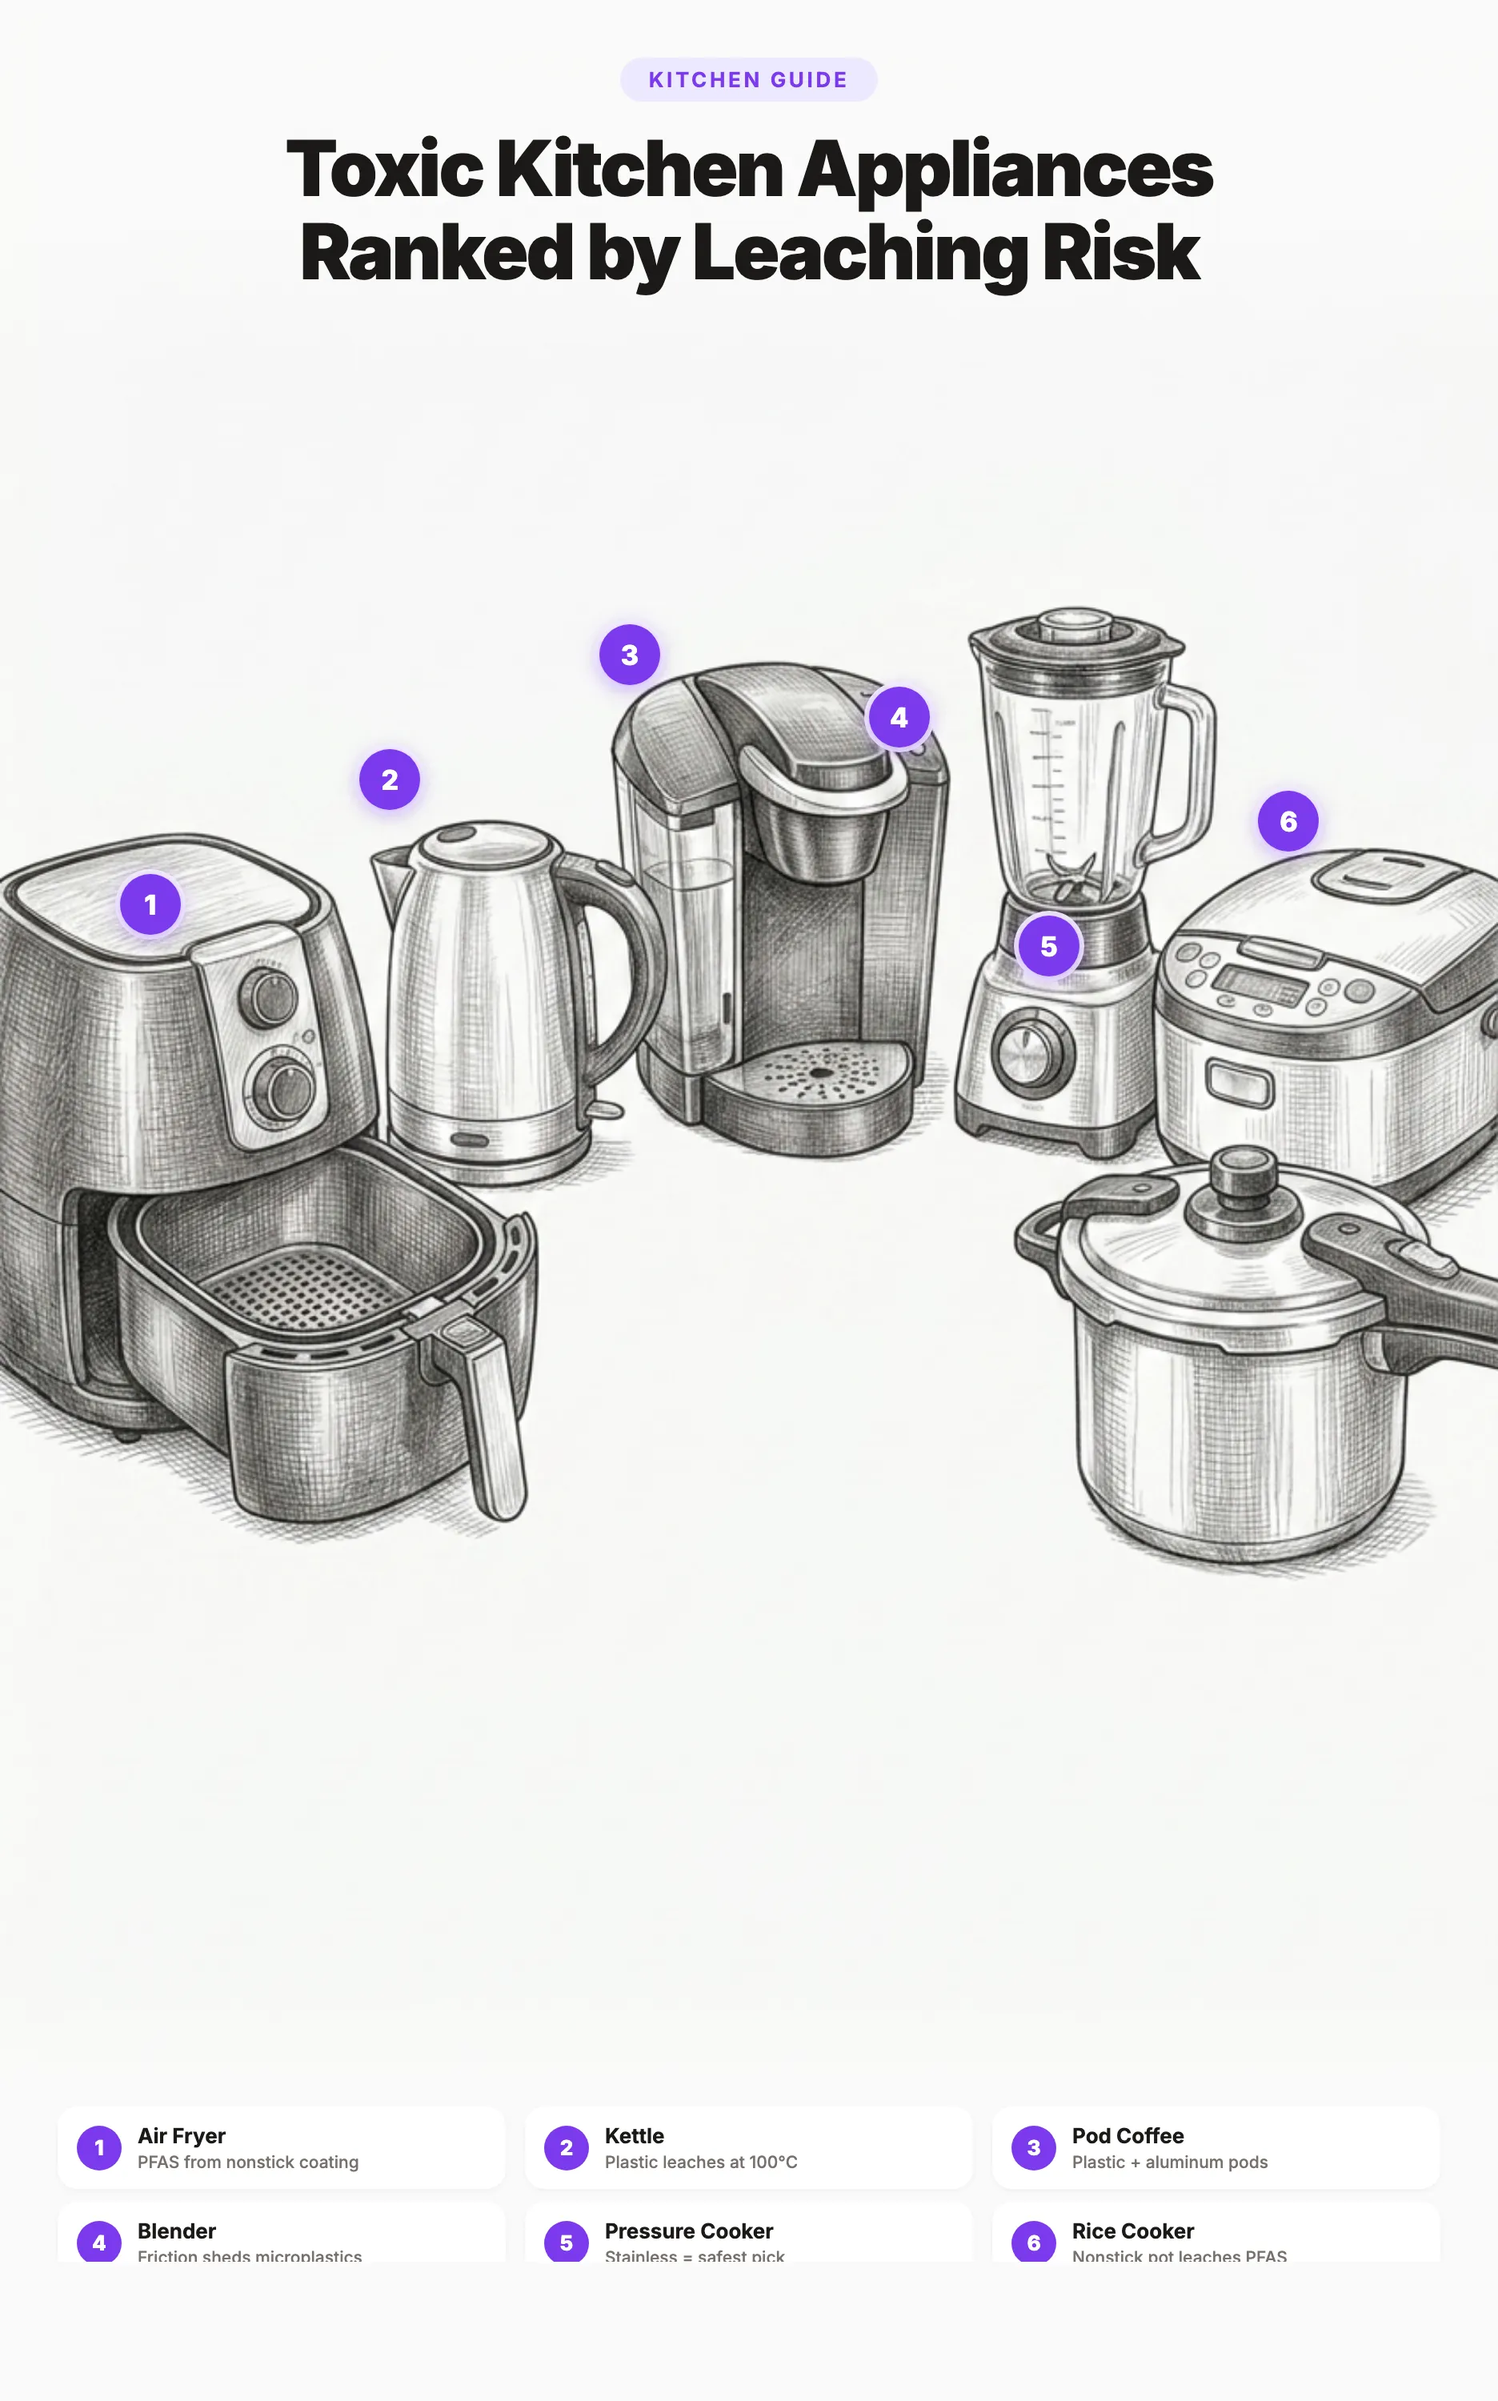
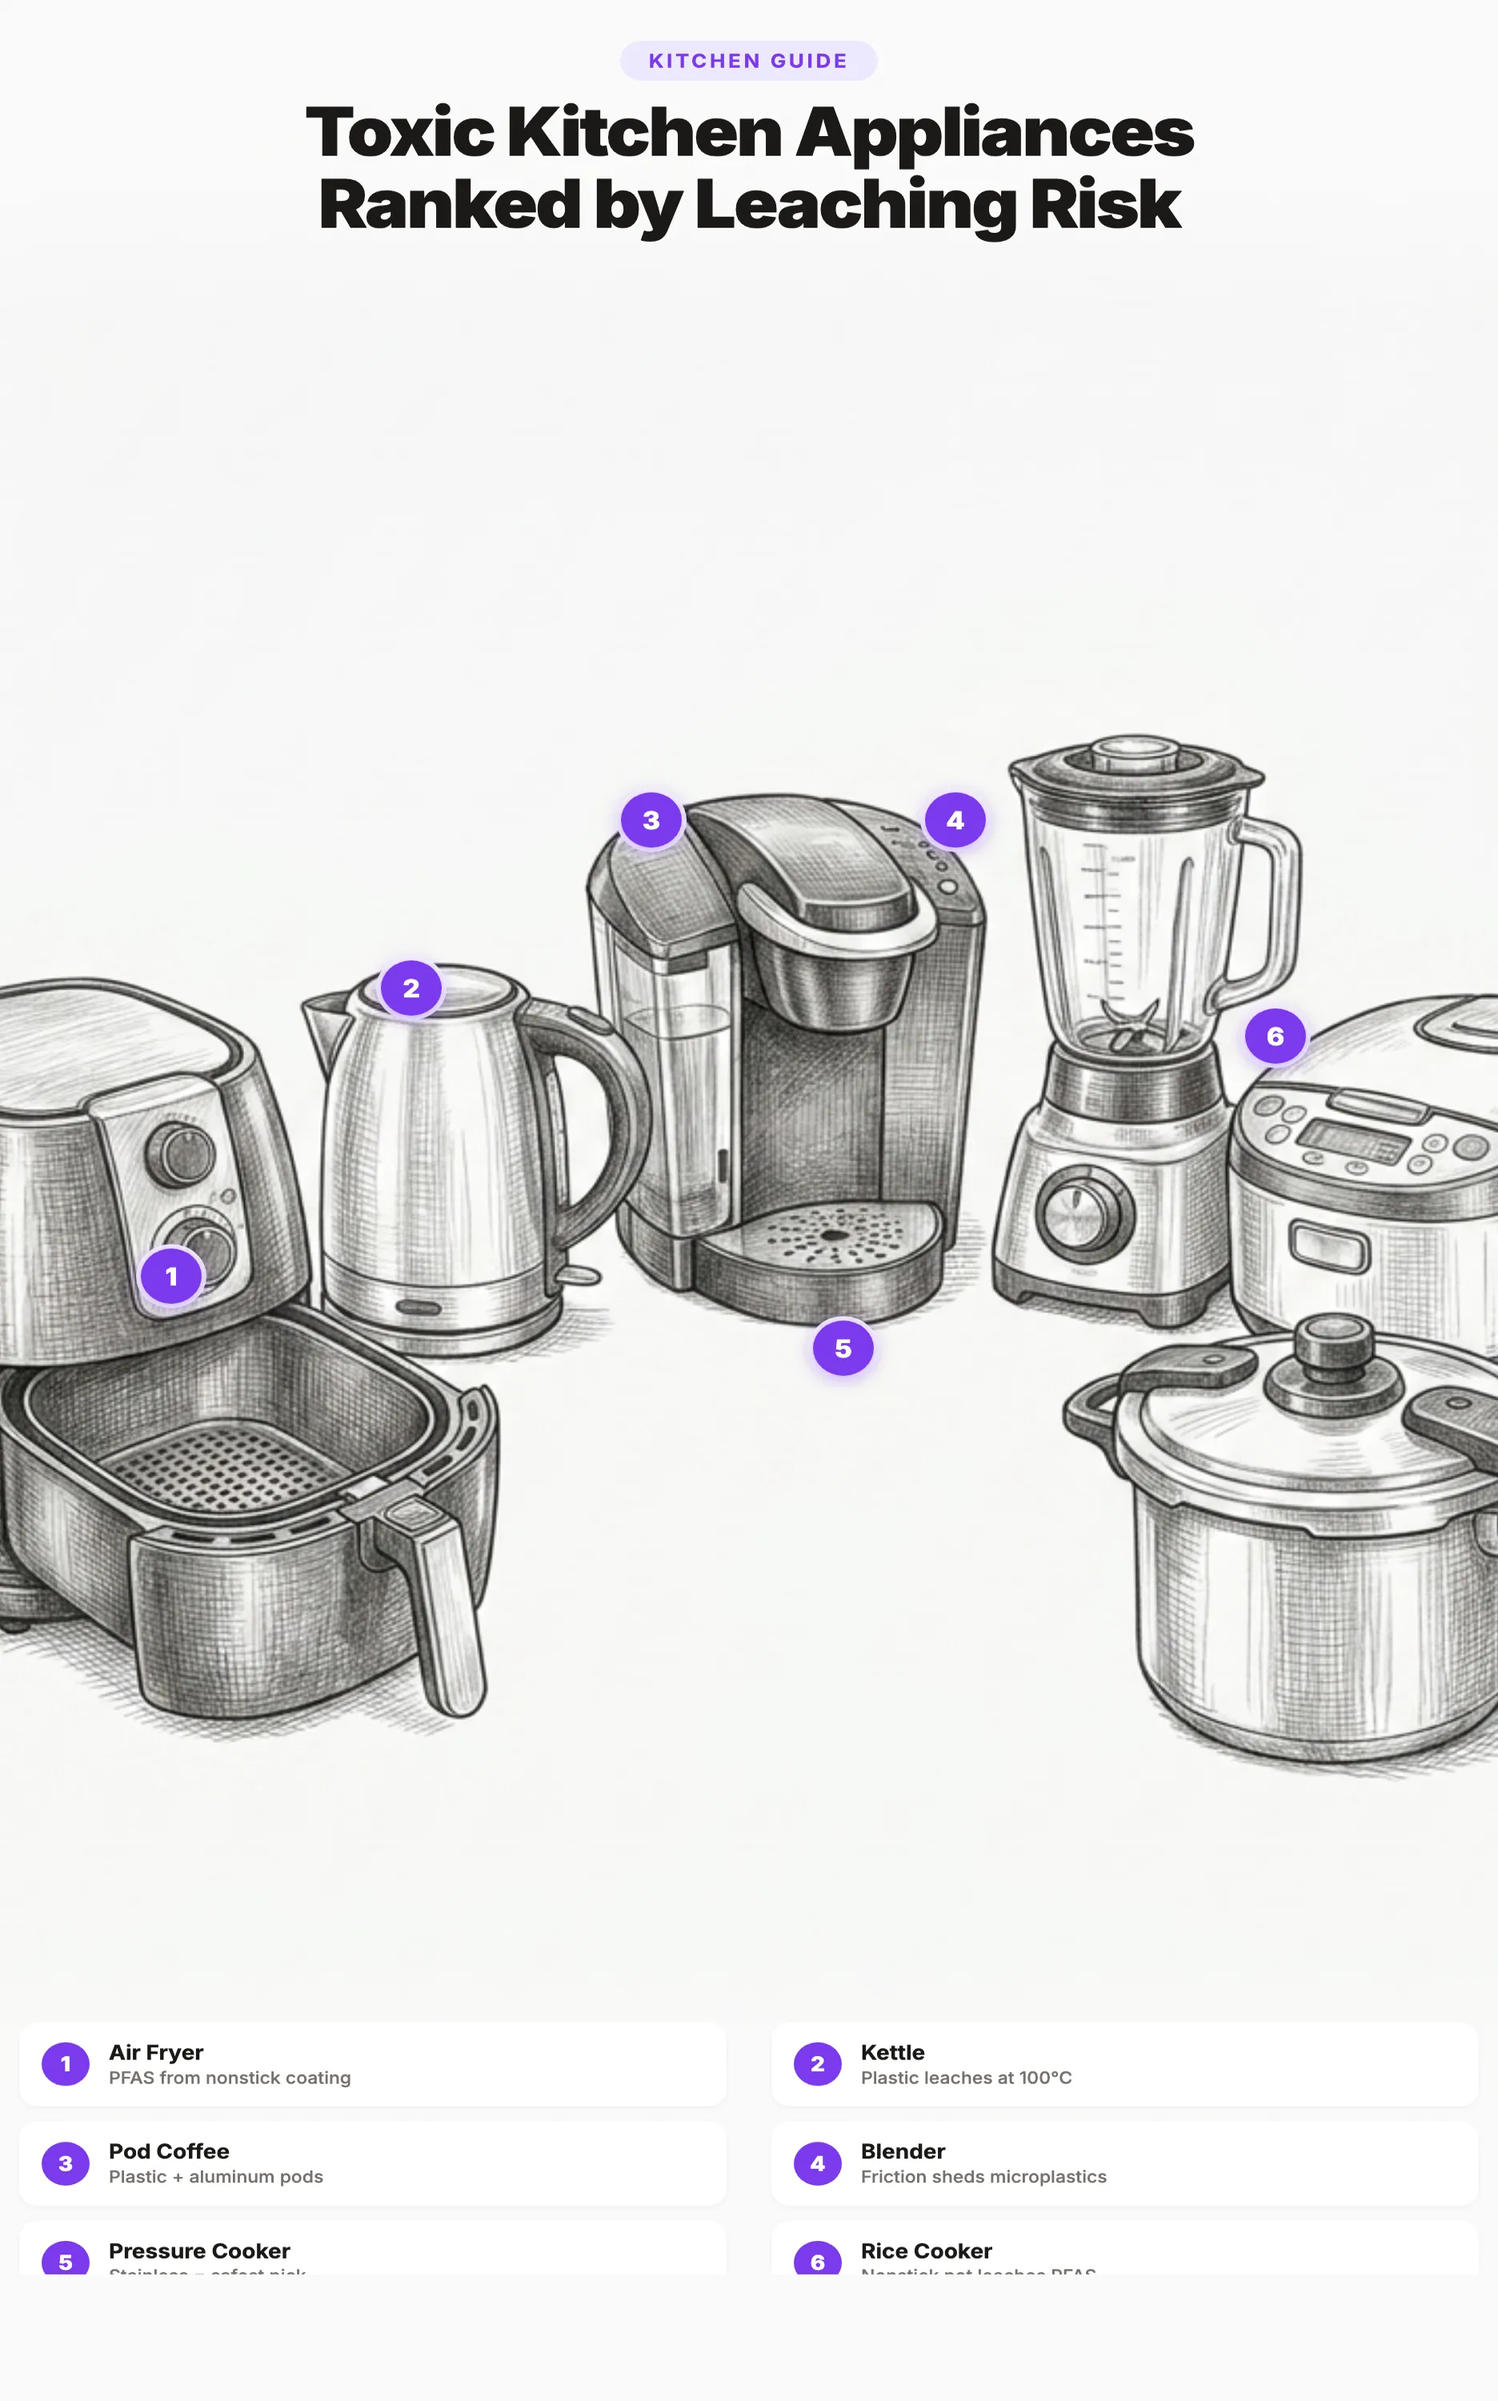
Fix pin: 2 columns, 3 rows, 6 badges on correct appliances

diff --git a/images/toxic-appliances-swap-pinterest.html b/images/toxic-appliances-swap-pinterest.html
@@ -21,22 +21,14 @@
     }
 
     .pin {
-      width: 936px;
-      height: 1500px;
-      display: flex;
-      flex-direction: column;
-      overflow: hidden;
-      position: relative;
-    }
-
-    /* Image area: takes remaining space */
-    .image-area {
-      flex: 1;
+      width: 1000px;
+      height: 1650px;
       position: relative;
       overflow: hidden;
     }
 
-    .image-area img {
+    /* Full bleed image */
+    .pin > img {
       width: 100%;
       height: 100%;
       object-fit: cover;
@@ -47,14 +39,13 @@
     .top-overlay {
       position: absolute;
       top: 0; left: 0; right: 0;
-      padding: 36px 40px 56px;
+      padding: 28px 40px 56px;
       background: linear-gradient(to bottom,
         rgba(250, 250, 249, 0.95) 0%,
         rgba(250, 250, 249, 0.85) 60%,
         rgba(250, 250, 249, 0) 100%
       );
       text-align: center;
-      z-index: 2;
     }
 
     .headline-tag {
@@ -67,11 +58,11 @@
       background: #ede9fe;
       padding: 6px 18px;
       border-radius: 100px;
-      margin-bottom: 16px;
+      margin-bottom: 10px;
     }
 
     .top-overlay h1 {
-      font-size: 48px;
+      font-size: 46px;
       font-weight: 900;
       color: #1c1917;
       line-height: 1.08;
@@ -97,57 +88,50 @@
       z-index: 3;
     }
 
-    .badge-1 { left: 8%;  top: 42%; }
-    .badge-2 { left: 24%; top: 36%; }
-    .badge-3 { left: 40%; top: 30%; }
-    .badge-4 { left: 58%; top: 33%; }
-    .badge-5 { left: 68%; top: 44%; }
-    .badge-6 { left: 84%; top: 38%; }
-
-    /* Gradient fade at bottom of image */
-    .image-fade {
-      position: absolute;
-      bottom: 0; left: 0; right: 0;
-      height: 60px;
-      background: linear-gradient(to bottom,
-        rgba(250, 250, 249, 0) 0%,
-        rgba(250, 250, 249, 1) 100%
-      );
-      z-index: 2;
-    }
+    .badge-1 { left: 12%; top: 52%; }
+    .badge-2 { left: 27%; top: 40%; }
+    .badge-3 { left: 42%; top: 33%; }
+    .badge-4 { left: 61%; top: 33%; }
+    .badge-5 { left: 54%; top: 55%; }
+    .badge-6 { left: 81%; top: 42%; }
 
     /* ─── BOTTOM: swap legend card ─── */
     .bottom-card {
-      background: #fafaf9;
-      padding: 16px 36px 14px;
-      flex-shrink: 0;
-      min-height: 200px;
+      position: absolute;
+      bottom: 0; left: 0; right: 0;
+      background: linear-gradient(to bottom,
+        rgba(250, 250, 249, 0) 0%,
+        rgba(250, 250, 249, 0.9) 15%,
+        rgba(250, 250, 249, 0.97) 30%,
+        rgba(250, 250, 249, 1) 50%
+      );
+      padding: 40px 44px 20px;
     }
 
     .swaps {
       display: grid;
-      grid-template-columns: 1fr 1fr 1fr;
-      gap: 8px 12px;
+      grid-template-columns: 1fr 1fr;
+      gap: 10px 28px;
     }
 
     .swap {
       display: flex;
       align-items: center;
-      gap: 10px;
+      gap: 12px;
       background: #fff;
       border-radius: 12px;
-      padding: 10px 12px;
+      padding: 12px 14px;
       box-shadow: 0 1px 3px rgba(0,0,0,0.05);
     }
 
     .swap-num {
-      width: 28px;
-      height: 28px;
-      min-width: 28px;
+      width: 30px;
+      height: 30px;
+      min-width: 30px;
       border-radius: 50%;
       background: #7c3aed;
       color: #fff;
-      font-size: 13px;
+      font-size: 14px;
       font-weight: 800;
       display: flex;
       align-items: center;
@@ -156,7 +140,7 @@
 
     .swap-text {
       flex: 1;
-      font-size: 13px;
+      font-size: 14px;
       font-weight: 700;
       color: #1c1917;
       line-height: 1.3;
@@ -164,7 +148,7 @@
 
     .swap-text span {
       display: block;
-      font-size: 10.5px;
+      font-size: 11.5px;
       font-weight: 500;
       color: #78716c;
       margin-top: 1px;
@@ -175,8 +159,8 @@
       display: flex;
       align-items: center;
       justify-content: space-between;
-      margin-top: 10px;
-      padding-top: 8px;
+      margin-top: 16px;
+      padding-top: 12px;
       border-top: 1px solid #e7e5e4;
     }
 
@@ -195,23 +179,19 @@
 </head>
 <body>
   <div class="pin">
-    <div class="image-area">
-      <img src="kitchen appliences.png" alt="Pencil sketch of kitchen appliances on countertop">
+    <img src="kitchen appliences.png" alt="Pencil sketch of kitchen appliances on countertop">
 
-      <div class="top-overlay">
-        <div class="headline-tag">Kitchen Guide</div>
-        <h1>Toxic Kitchen Appliances<br>Ranked by Leaching Risk</h1>
-      </div>
-
-      <div class="badge badge-1">1</div>
-      <div class="badge badge-2">2</div>
-      <div class="badge badge-3">3</div>
-      <div class="badge badge-4">4</div>
-      <div class="badge badge-5">5</div>
-      <div class="badge badge-6">6</div>
-
-      <div class="image-fade"></div>
+    <div class="top-overlay">
+      <div class="headline-tag">Kitchen Guide</div>
+      <h1>Toxic Kitchen Appliances<br>Ranked by Leaching Risk</h1>
     </div>
+
+    <div class="badge badge-1">1</div>
+    <div class="badge badge-2">2</div>
+    <div class="badge badge-3">3</div>
+    <div class="badge badge-4">4</div>
+    <div class="badge badge-5">5</div>
+    <div class="badge badge-6">6</div>
 
     <div class="bottom-card">
       <div class="swaps">
